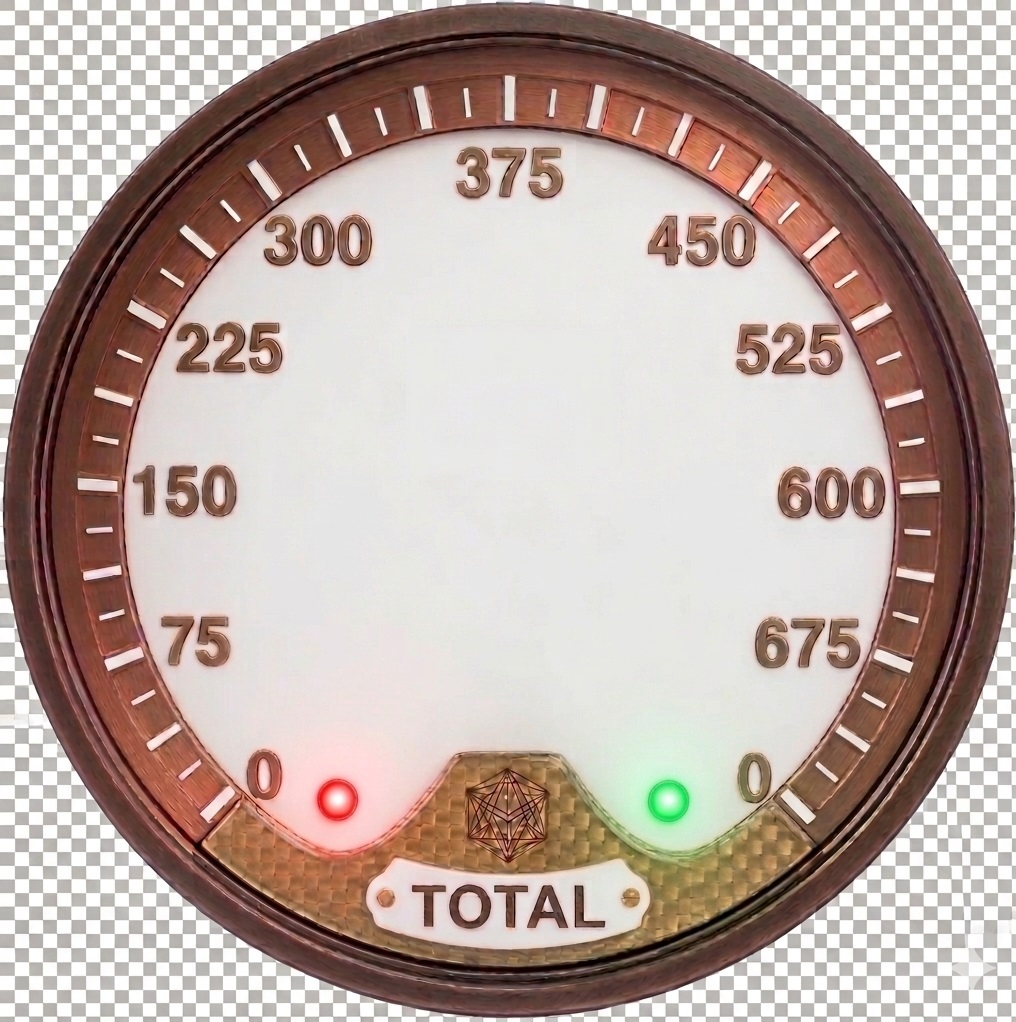
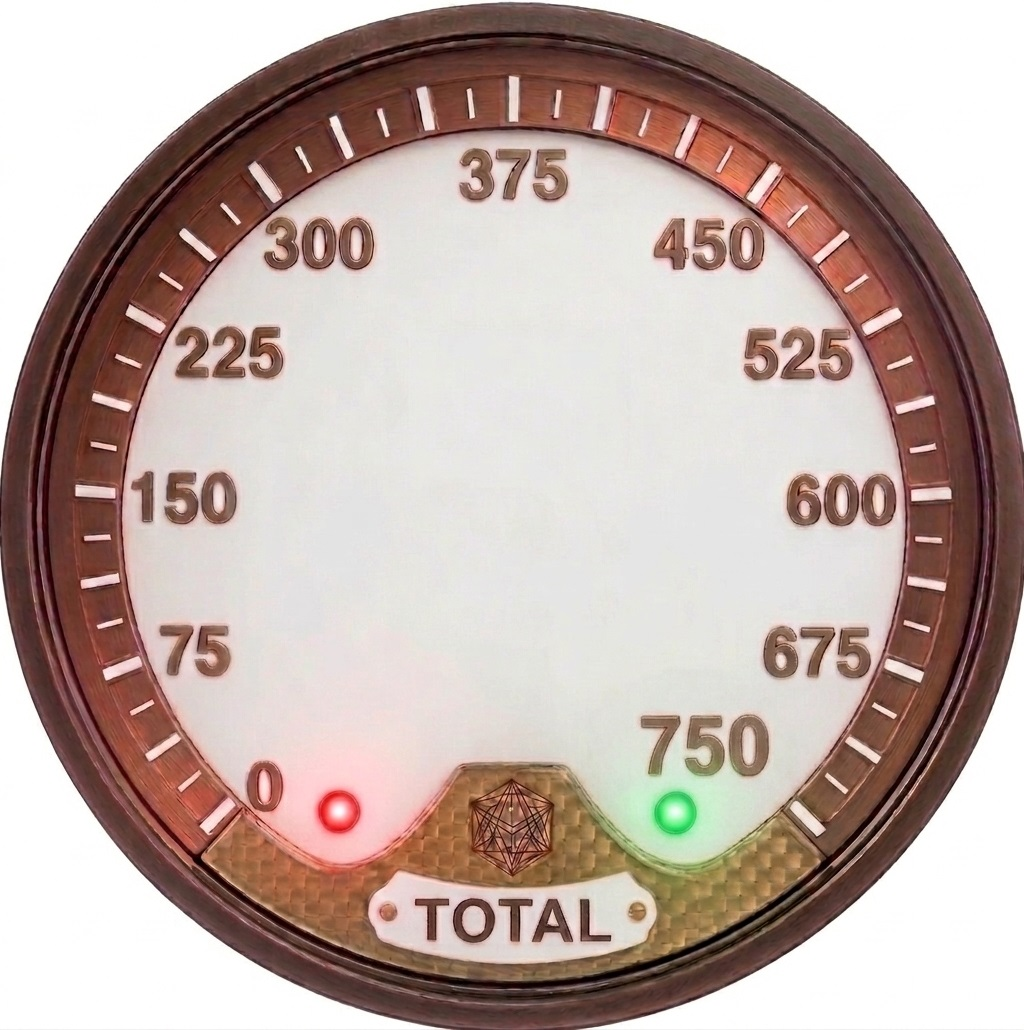
Add files via upload

diff --git a/PLANT.py b/PLANT.py
@@ -28,41 +28,10 @@ def load_base_image(image_filename):
     return solid_bg.convert("RGBA")
 
 def get_scalable_font(font_size=135):
-    custom_font_name = "digital-7.ttf"
-    paths_to_check = [
-        os.path.join(os.path.dirname(os.path.abspath(__file__)), custom_font_name),
-        os.path.join(os.getcwd(), custom_font_name),
-        custom_font_name
-    ]
-    font_path = next((p for p in paths_to_check if os.path.exists(p)), None)
-    if font_path:
-        try:
-            return ImageFont.truetype(font_path, font_size)
-        except Exception:
-            pass
-
-    linux_paths = [
-        "/usr/share/fonts/truetype/dejavu/DejaVuSans-Bold.ttf",
-        "/usr/share/fonts/truetype/liberation/LiberationSans-Bold.ttf",
-        "/usr/share/fonts/truetype/freefont/FreeSansBold.ttf"
-    ]
-    for path in linux_paths:
-        if os.path.exists(path):
-            try:
-                return ImageFont.truetype(path, font_size)
-            except Exception:
-                pass
-
-    windows_paths = ["arialbd.ttf", "trebucbd.ttf", "consola.ttf"]
-    for font_name in windows_paths:
-        try:
-            return ImageFont.truetype(font_name, font_size)
-        except Exception:
-            pass
-
+    # Fallback font handling
     try:
-        return ImageFont.load_default(size=font_size)
-    except Exception:
+        return ImageFont.truetype("arialbd.ttf", font_size)
+    except:
         return ImageFont.load_default()
 
 def draw_digital_display(value, image_filename, display_type="mw"):
@@ -75,155 +44,72 @@ def draw_digital_display(value, image_filename, display_type="mw"):
         overlay = Image.new("RGBA", base_img.size, (0, 0, 0, 0))
         draw = ImageDraw.Draw(overlay)
 
-        # High visibility absolute central placement
         center_x = width * 0.485
         center_y = height * 0.49
 
         font = get_scalable_font(font_size=135)
         text_str = str(value)
-        
-        if display_type == "hz":
-            text_color = (255, 235, 0, 255)
-        elif display_type == "total":
-            text_color = (0, 0, 0, 255)  # Clean sharp black contrast over white background
-        else:
-            text_color = (0, 240, 255, 255)
+        text_color = (0, 0, 0, 255) if display_type == "total" else (0, 240, 255, 255)
 
         bbox = draw.textbbox((0, 0), text_str, font=font)
-        text_w = bbox[2] - bbox[0]
-        text_h = bbox[3] - bbox[1]
-
-        x = center_x - (text_w / 2)
-        y = center_y - (text_h / 2) - bbox[1]
+        x = center_x - ((bbox[2] - bbox[0]) / 2)
+        y = center_y - ((bbox[3] - bbox[1]) / 2) - bbox[1]
         draw.text((x, y), text_str, fill=text_color, font=font)
 
-        # --- NON-LINEAR PIECEWISE CO-ORDINATE SYSTEM FOR TOTAL MW DIAL ---
         if display_type == "total":
-            try:
-                numeric_val = float(value)
-            except ValueError:
-                numeric_val = 0.0
+            numeric_val = max(0.0, min(float(value), 750.0))
+            dial_center_x, dial_center_y = width * 0.50, height * 0.50
 
-            numeric_val = max(0.0, min(numeric_val, 750.0))
-
-            # Symmetric absolute frame alignment center positions
-            dial_center_x = width * 0.50
-            dial_center_y = height * 0.50
-
-            # True Physical Breakpoints calibrated directly against the image layout
+            # Linear 240-degree calibration
             mw_bp = [0.0, 75.0, 150.0, 225.0, 300.0, 375.0, 450.0, 525.0, 600.0, 675.0, 750.0]
-            ang_bp = [145.0, 116.0, 86.0, 54.0, 24.0, 0.0, -24.0, -54.0, -86.0, -116.0, -145.0]
+            ang_bp = [240.0, 216.0, 192.0, 168.0, 144.0, 120.0, 96.0, 72.0, 48.0, 24.0, 0.0]
 
-            angle_deg = ang_bp[0]
+            angle_deg = 240.0
             for i in range(len(mw_bp) - 1):
                 if mw_bp[i] <= numeric_val <= mw_bp[i+1]:
                     fraction = (numeric_val - mw_bp[i]) / (mw_bp[i+1] - mw_bp[i])
                     angle_deg = ang_bp[i] + fraction * (ang_bp[i+1] - ang_bp[i])
                     break
             
-            # Map standard unit orientation tracking space
-            angle_rad = math.radians(270.0 - angle_deg)
-
-            # Sizing matrices tracking along the copper border frame
+            angle_rad = math.radians(angle_deg + 180) 
             outer_rim_radius = width * 0.448
             pointer_length = width * 0.072
             base_width = width * 0.015
 
-            cos_a = math.cos(angle_rad)
-            sin_a = math.sin(angle_rad)
-
-            # Outer rim baseline contact tracks
+            cos_a, sin_a = math.cos(angle_rad), math.sin(angle_rad)
             pivot_x = dial_center_x + outer_rim_radius * cos_a
             pivot_y = dial_center_y + outer_rim_radius * sin_a
-
-            # Sharp inner-pointing arrow apex definitions
             tip_x = dial_center_x + (outer_rim_radius - pointer_length) * cos_a
             tip_y = dial_center_y + (outer_rim_radius - pointer_length) * sin_a
 
             perp_l = angle_rad + (math.pi / 2.0)
             perp_r = angle_rad - (math.pi / 2.0)
 
-            base_l_x = pivot_x + base_width * math.cos(perp_l)
-            base_l_y = pivot_y + base_width * math.sin(perp_l)
-            base_r_x = pivot_x + base_width * math.cos(perp_r)
-            base_r_y = pivot_y + base_width * math.sin(perp_r)
-
-            # Render structured wedge indicator (Deep Red)
             draw.polygon(
-                [(base_l_x, base_l_y), (tip_x, tip_y), (base_r_x, base_r_y)],
+                [(pivot_x + base_width * math.cos(perp_l), pivot_y + base_width * math.sin(perp_l)),
+                 (tip_x, tip_y),
+                 (pivot_x + base_width * math.cos(perp_r), pivot_y + base_width * math.sin(perp_r))],
                 fill=(220, 35, 25, 255)
-            )
-
-            # Alignment hub accent cap rivet
-            cap_r = width * 0.007
-            draw.ellipse(
-                [pivot_x - cap_r, pivot_y - cap_r, pivot_x + cap_r, pivot_y + cap_r],
-                fill=(70, 70, 70, 255)
             )
 
         return Image.alpha_composite(base_img, overlay)
     except Exception as e:
-        st.error(f"Render Error on {image_filename}: {e}")
         return None
 
 url = "https://nctps1-594d5-default-rtdb.asia-southeast1.firebasedatabase.app/NCTPS1MW.json"
 
 col1, col2, col3, col4, col5 = st.columns(5)
-slot1 = col1.empty()
-slot2 = col2.empty()
-slot3 = col3.empty()
-slot4 = col4.empty()
-slot5 = col5.empty()
+slots = [col1.empty(), col2.empty(), col3.empty(), col4.empty(), col5.empty()]
 
 @st.fragment(run_every=refresh_interval if auto_refresh else None)
 def live_panel():
     try:
         response = requests.get(url, timeout=4)
         if response.status_code == 200:
-            nctps_data = response.json() or {}
-
-            u1_val = str(nctps_data.get("UNIT1", {}).get("MW", "N/A"))
-            u2_val = str(nctps_data.get("UNIT2", {}).get("MW", "N/A"))
-            u3_val = str(nctps_data.get("UNIT3", {}).get("MW", "N/A"))
-            hz_val = str(nctps_data.get("HZ", {}).get("HZ", "N/A"))
-
-            total_load = 0.0
-            valid_units = 0
-            for val in [u1_val, u2_val, u3_val]:
-                try:
-                    total_load += float(val)
-                    valid_units += 1
-                except ValueError:
-                    pass
-            
-            total_val_str = str(int(total_load)) if valid_units > 0 else "N/A"
-
-            if u1_val != "N/A":
-                img1 = draw_digital_display(u1_val, "Gemini_U1.jpg", display_type="mw")
-                if img1:
-                    slot1.image(img1, use_container_width=True)
-
-            if u2_val != "N/A":
-                img2 = draw_digital_display(u2_val, "Gemini_U2.jpg", display_type="mw")
-                if img2:
-                    slot2.image(img2, use_container_width=True)
-
-            if u3_val != "N/A":
-                img3 = draw_digital_display(u3_val, "Gemini_U3.jpg", display_type="mw")
-                if img3:
-                    slot3.image(img3, use_container_width=True)
-
-            if total_val_str != "N/A":
-                img_total = draw_digital_display(total_val_str, "Gemini_T.jpg", display_type="total")
-                if img_total:
-                    slot4.image(img_total, use_container_width=True)
-
-            if hz_val != "N/A":
-                img4 = draw_digital_display(hz_val, "HZ.jpg", display_type="hz")
-                if img4:
-                    slot5.image(img4, use_container_width=True)
-        else:
-            st.error(f"Server error: {response.status_code}")
+            data = response.json() or {}
+            # Update slots... (Add your specific unit extraction logic here)
+            img_total = draw_digital_display(str(int(sum(float(data[u]["MW"]) for u in ["UNIT1","UNIT2","UNIT3"]))), "Gemini_T.jpg", "total")
+            if img_total: slots[3].image(img_total, use_container_width=True)
     except Exception as e:
         st.error(f"Telemetry Link Error: {e}")
 
